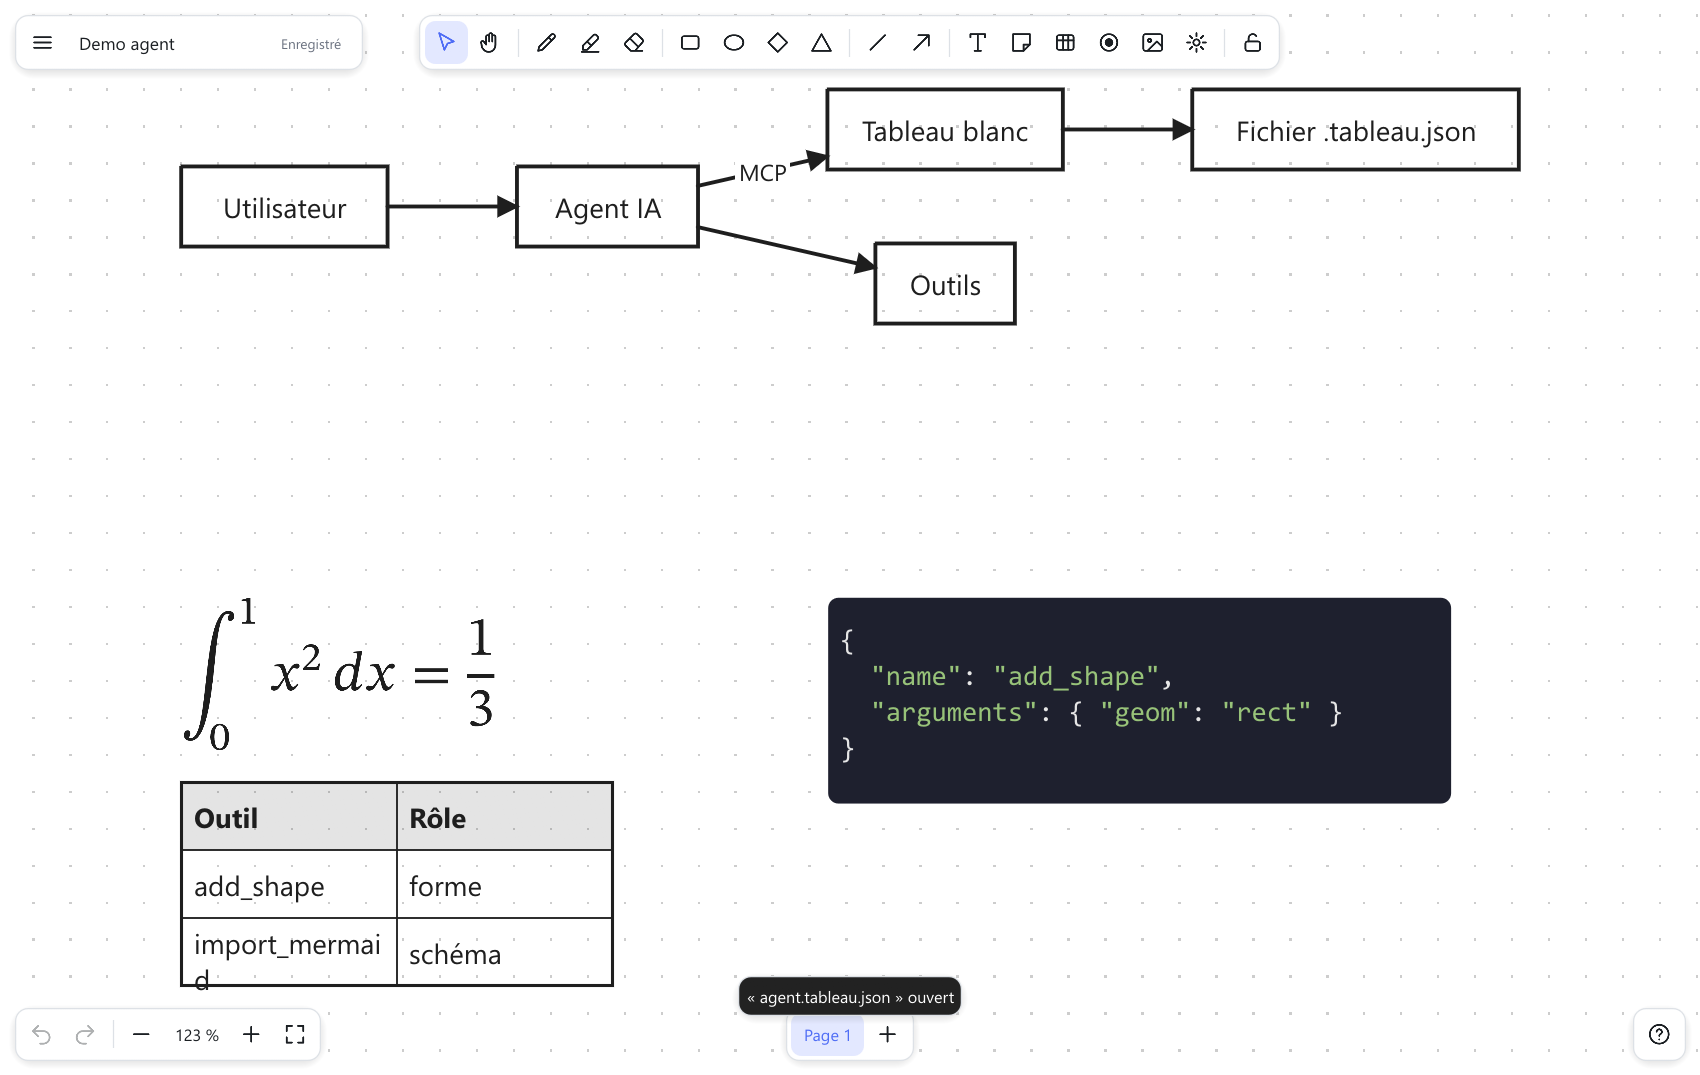
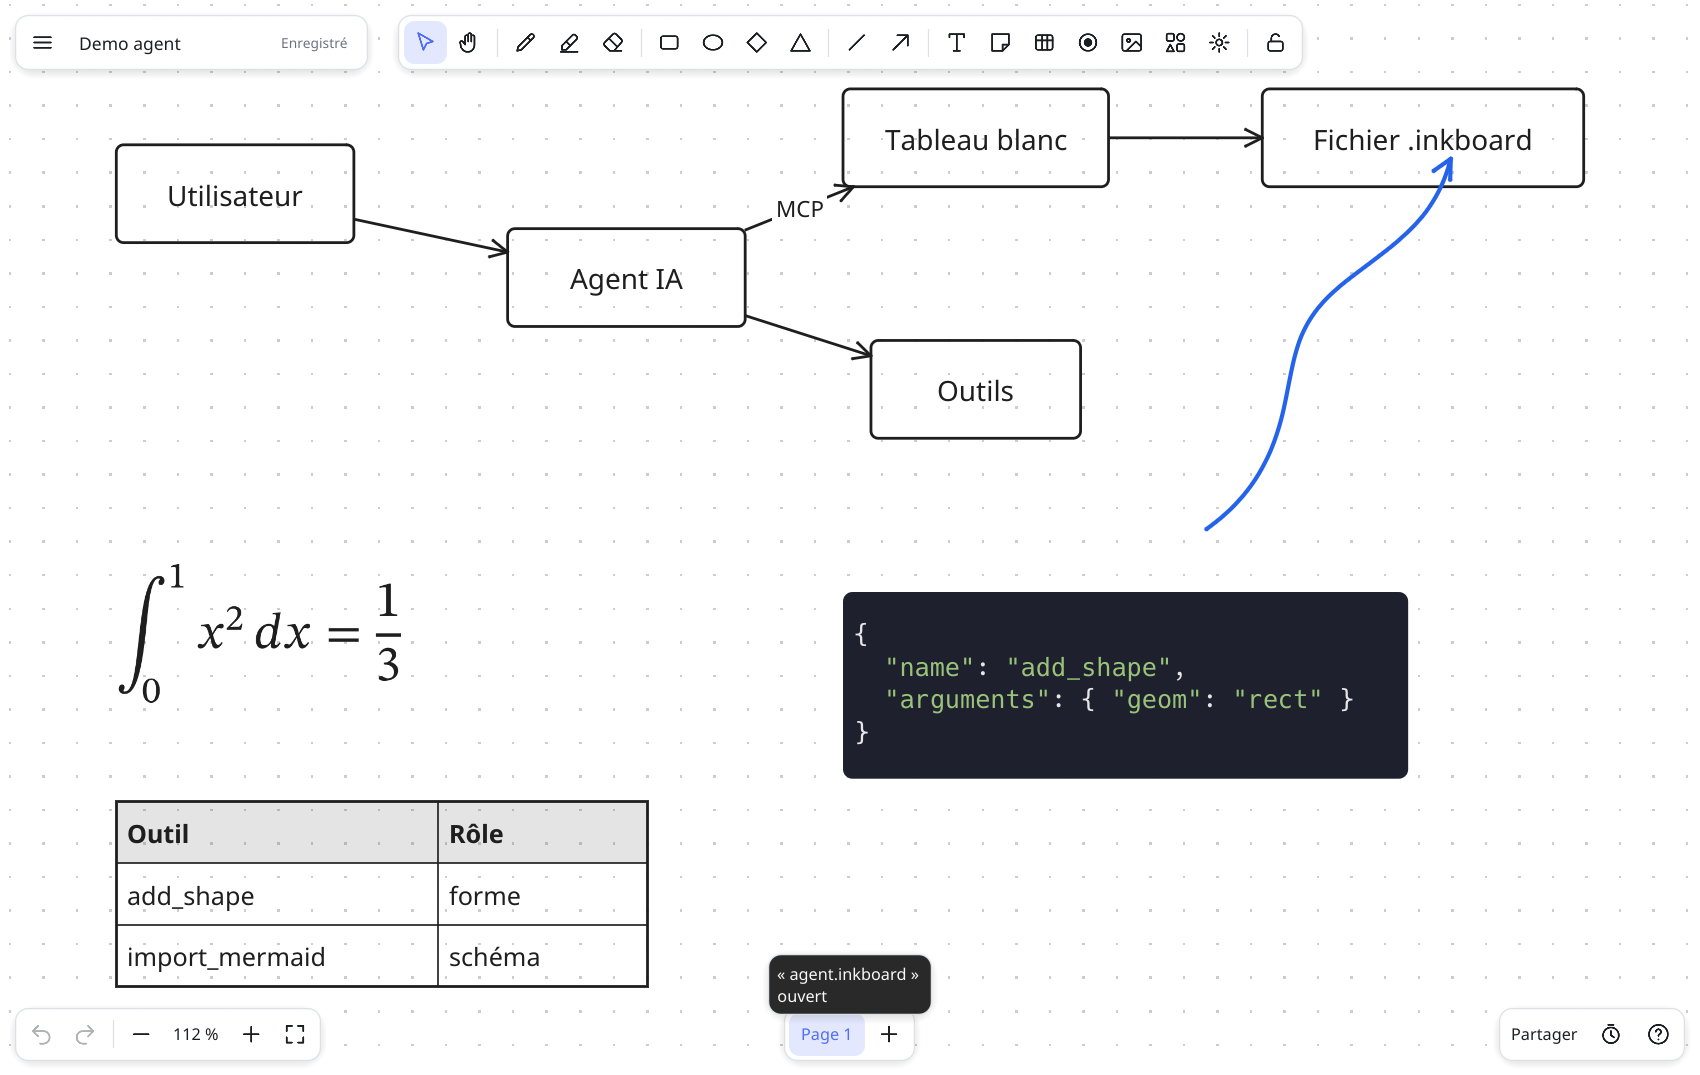
Prepare the repository for outside testers
Status is now "release candidate" in both READMEs, with a 10-minute testing
guide (English and French) linked from the READMEs and CONTRIBUTING.md.
Add a "Test report" issue form and a Discussions contact link, and
regenerate the hero screenshots (current UI, ".inkboard" extension,
no split words in the table, pen stroke with an arrowhead).

diff --git a/docs/fr/TESTING.md b/docs/fr/TESTING.md
@@ -1,0 +1,43 @@
+# Tester Inkboard en 10 minutes
+*English version: [TESTING.md](../TESTING.md)*
+
+Merci d'essayer Inkboard ! Les versions actuelles sont des **release candidates** (`v0.2.0-rc.N`) : elles n'ont été utilisées à la main que sous Windows.
+Les versions Linux et macOS passent les tests automatiques mais personne ne les a encore essayées à la main, et le stylet n'a pas été validé sur du vrai matériel.
+Chaque retour aide, qu'il dise « tout va bien » ou « ça a planté ».
+
+## 1. Le récupérer
+
+Téléchargez l'installeur de votre système sur la page [**Releases**](https://github.com/VictorLetirand/inkboard/releases) (la dernière `rc`) :
+
+| Système | Fichier |
+|---|---|
+| Windows 10/11 | `inkboard_*_x64-setup.exe` |
+| Linux (x86-64) | `inkboard_*_amd64.deb` ou `inkboard_*_x86_64.AppImage` |
+| macOS | `Inkboard_*.dmg` |
+
+Les installeurs **ne sont pas encore signés** : votre système vous avertit au premier lancement. Sous **Windows**, SmartScreen affiche « Windows a protégé votre ordinateur » → *Informations complémentaires* → *Exécuter quand même* ;
+sous **macOS**, Ctrl-clic sur l'application → *Ouvrir*. Chaque version publie des sommes SHA-256. Sans rien installer : rejoignez un tableau partagé depuis une page web (voir l'étape 8).
+
+## 2. À essayer
+
+1. **Stylet :** tracez quelques traits à main levée. Dans le panneau de style du stylo, donnez à un trait une **pointe de flèche à la fin**.
+2. **Formes et texte :** dessinez un rectangle, une ellipse et un losange. Le texte s'ouvre juste après le dessin de la forme : saisissez-y du texte.
+3. **Connecteurs :** reliez deux formes par une flèche, puis déplacez une forme : le connecteur doit suivre.
+4. **Tableau :** insérez un tableau, remplissez quelques cellules, ajoutez une ligne.
+5. **Coller depuis un tableur :** copiez quelques cellules dans Excel / LibreOffice / Google Sheets et collez-les sur le tableau.
+6. **Export :** exportez le tableau en **PNG** et en **PDF**, puis ouvrez les résultats.
+7. **Ouvrir un fichier d'un autre outil :** ouvrez un fichier draw.io ou Excalidraw que vous avez déjà (`.drawio`, `.excalidraw`).
+8. **Partage en direct :** cliquez sur *Partager* et rejoignez depuis un second appareil ou un navigateur (le lien d'invitation s'ouvre dans une page web, rien à installer). Chacun voit-il les modifications et le curseur de l'autre ?
+9. **Thème sombre :** passez au thème sombre depuis le menu et regardez autour de vous.
+
+## 3. Si vous avez le bon système ou le bon appareil
+
+- **Linux :** essayez l'AppImage (`chmod +x *.AppImage && ./*.AppImage`) et le `.deb` (`sudo apt install ./inkboard_*.deb`). Indiquez votre distribution et si vous êtes sous X11 ou Wayland.
+- **macOS :** essayez le `.dmg` (Apple Silicon ou Intel) et dites lequel.
+- **Surface / stylet :** lancez `inkboard --pen-test`, vérifiez la pression et la gomme, puis envoyez le rapport ([comment](STYLET.md)).
+
+## 4. Racontez-nous
+
+- Remplissez le formulaire [**Test report**](https://github.com/VictorLetirand/inkboard/issues/new?template=test_report.md) (en anglais ou en français) : version, système, ce qui a marché, ce qui n'a pas marché (captures bienvenues).
+- Questions, idées, ou simplement « ça marche très bien » : [GitHub Discussions](https://github.com/VictorLetirand/inkboard/discussions).
+- Si Inkboard plante, il écrit un journal et indique où : `%APPDATA%\Inkboard\crash.log` sous Windows. Merci de le joindre.

diff --git a/README.md b/README.md
@@ -7,7 +7,7 @@ Draw, diagram and present on a native desktop app, import and export the formats
 
 [![CI](https://github.com/VictorLetirand/inkboard/actions/workflows/ci.yml/badge.svg)](https://github.com/VictorLetirand/inkboard/actions/workflows/ci.yml)
 [![License: MIT OR Apache-2.0](https://img.shields.io/badge/license-MIT%20OR%20Apache--2.0-blue.svg)](#license)
-![Status: alpha](https://img.shields.io/badge/status-alpha-orange.svg)
+![Status: release candidate](https://img.shields.io/badge/status-release%20candidate-orange.svg)
 ![Platforms](https://img.shields.io/badge/platforms-Windows%20%7C%20Linux%20%7C%20macOS-lightgrey.svg)
 
 🇬🇧 English · 🇫🇷 [Version française](README.fr.md)
@@ -18,8 +18,9 @@ Draw, diagram and present on a native desktop app, import and export the formats
 
 ![Two browser guests and an AI agent editing the same board](docs/img/live-sharing.gif)
 
-> **Status: alpha.** Inkboard is a young project. It is feature-rich and heavily tested (over 850 automated tests), but it has so far been **used by hand on Windows only** (live sharing was also tried between several computers, an Android phone on 5G and a Linux server).
-> Linux and macOS builds compile and pass the automated tests in CI, yet nobody has used the app there yet — expect rough edges, and please [report them](../../issues).
+> **Status: release candidate.** Inkboard is a young project: the 0.2.0 features are complete and being stabilized (releases are named `v0.2.0-rc.N`). It is feature-rich and heavily tested (over 850 automated tests), but it has so far been **used by hand on Windows only** (live sharing was also tried between several computers, an Android phone on 5G and a Linux server).
+> Linux and macOS builds compile and pass the automated tests in CI, yet nobody has used the app there by hand yet, and the pen has not been validated on real hardware — expect rough edges, and please [report them](../../issues).
+> **Testers wanted:** the [10-minute testing guide](docs/TESTING.md) tells you what to try and how to report it.
 > The interface is available in **English and French**; it follows your system language and can be switched from the menu (*Language*).
 
 ## Why Inkboard?
@@ -41,7 +42,7 @@ Before writing a line of code we surveyed what users keep asking for in whiteboa
 
 ### Download (recommended)
 
-Grab the installer for your system from the [**Releases**](../../releases) page (pre-releases while Inkboard is in alpha):
+Grab the installer for your system from the [**Releases**](../../releases) page (release candidates are published as pre-releases until 0.2.0):
 
 | System | File | Notes |
 |---|---|---|
@@ -184,7 +185,7 @@ Planned or wanted next:
 - First real-world usage on Linux and macOS, and fixes that come out of it.
 - Real LaTeX beyond what the typesetting library supports; per-language code highlighting.
 
-Have an idea or found a bug? [Open an issue](../../issues/new/choose) — see also [CONTRIBUTING.md](CONTRIBUTING.md).
+Have an idea or found a bug? [Open an issue](../../issues/new/choose) or start a [discussion](https://github.com/VictorLetirand/inkboard/discussions) — see also the [testing guide](docs/TESTING.md) and [CONTRIBUTING.md](CONTRIBUTING.md).
 
 ## License
 

diff --git a/docs/TESTING.md b/docs/TESTING.md
@@ -1,0 +1,44 @@
+# Testing Inkboard in 10 minutes
+
+*Version française : [fr/TESTING.md](fr/TESTING.md)*
+
+Thank you for trying Inkboard! The current versions are **release candidates** (`v0.2.0-rc.N`): they have been used by hand on Windows only.
+Linux and macOS builds pass the automated tests but nobody has used them by hand yet, and the pen has not been validated on real hardware.
+Every report helps, whether it says "all good" or "this broke".
+
+## 1. Get it
+
+Download the installer for your system from the [**Releases**](https://github.com/VictorLetirand/inkboard/releases) page (the newest `rc`):
+
+| System | File |
+|---|---|
+| Windows 10/11 | `inkboard_*_x64-setup.exe` |
+| Linux (x86-64) | `inkboard_*_amd64.deb` or `inkboard_*_x86_64.AppImage` |
+| macOS | `Inkboard_*.dmg` |
+
+The installers are **not code-signed yet**, so your system warns you the first time: on **Windows**, SmartScreen says "Windows protected your PC" → *More info* → *Run anyway*;
+on **macOS**, Control-click the app → *Open*. Every release lists SHA-256 checksums. No install at all? Join a shared board from a web page (see step 8).
+
+## 2. Things to try
+
+1. **Pen:** draw a few freehand strokes. In the style panel of the pen, give one stroke an **arrowhead at the end**.
+2. **Shapes and text:** draw a rectangle, an ellipse and a diamond. The text opens right after the shape is drawn: type in it.
+3. **Connectors:** join two shapes with an arrow, then move a shape: the connector must follow.
+4. **Table:** insert a table, type in a few cells, add a row.
+5. **Paste from a spreadsheet:** copy a few cells in Excel / LibreOffice / Google Sheets and paste them on the board.
+6. **Export:** export the board as **PNG** and as **PDF**, and open the results.
+7. **Open a foreign file:** open a draw.io or Excalidraw file you already have (`.drawio`, `.excalidraw`).
+8. **Live sharing:** click *Share* and join from a second device or a browser (the invitation link opens in a web page, nothing to install). Do both sides see each other's changes and cursors?
+9. **Dark theme:** switch to the dark theme from the menu and look around.
+
+## 3. If you have the right system or device
+
+- **Linux:** try the AppImage (`chmod +x *.AppImage && ./*.AppImage`) and the `.deb` (`sudo apt install ./inkboard_*.deb`). Tell us your distribution and whether you use X11 or Wayland.
+- **macOS:** try the `.dmg` (Apple Silicon or Intel) and tell us which.
+- **Surface / pen users:** run `inkboard --pen-test` and check pressure and the eraser end, then send the report ([how](STYLET.md)).
+
+## 4. Tell us how it went
+
+- Fill in the [**Test report**](https://github.com/VictorLetirand/inkboard/issues/new?template=test_report.md) form: version, system, what worked, what did not (screenshots welcome).
+- Questions, ideas, or just "it works great": [GitHub Discussions](https://github.com/VictorLetirand/inkboard/discussions).
+- If Inkboard crashes, it writes a log and tells you where: `%APPDATA%\Inkboard\crash.log` on Windows. Please attach it.

diff --git a/README.fr.md b/README.fr.md
@@ -13,7 +13,7 @@ les manques les plus souvent reprochés aux outils du genre (Miro, Excalidraw, d
 ## Installer
 
 Des installeurs (Windows `.exe`, Linux `.deb` / `.AppImage`, macOS `.dmg`) sont publiés sur la page *Releases* du dépôt à chaque version (voir [docs/DISTRIBUTION.md](docs/fr/DISTRIBUTION.md)) ;
-ils ne sont pas encore signés (avertissement SmartScreen / Gatekeeper au premier lancement). Seuls les installeurs Windows ont été construits et testés à ce jour.
+ils ne sont pas encore signés (avertissement SmartScreen / Gatekeeper au premier lancement). Les versions actuelles sont des **release candidates** (`v0.2.0-rc.N`) : utilisées à la main sous Windows uniquement ; les versions Linux et macOS passent la CI mais n'ont pas été essayées à la main, et le stylet n'a pas été validé sur du vrai matériel. **Testeurs bienvenus** : voir le [guide de test en 10 minutes](docs/fr/TESTING.md).
 
 **Sous Windows**, téléchargez `inkboard_*_x64-setup.exe` et double-cliquez : l'installation se fait pour votre utilisateur en quelques secondes (sans droits d'administrateur, rien à installer avant), ajoute un raccourci au menu Démarrer et se désinstalle proprement depuis *Paramètres → Applications*. Ajoutez `--silent` pour une installation silencieuse. Un paquet `winget` est en préparation (`winget install Inkboard.Inkboard`). Si la fenêtre ne s'ouvre pas : Inkboard bascule tout seul d'OpenGL à Direct3D / Vulkan ; la variable d'environnement `INKBOARD_RENDERER=wgpu` (ou `glow`) en force un ; en cas de plantage, il écrit `%APPDATA%\Inkboard\crash.log` et l'indique. La signature de code est prête à être activée dans le workflow de publication dès qu'un certificat existe ([comment](docs/fr/DISTRIBUTION.md)).
 

diff --git a/.github/ISSUE_TEMPLATE/test_report.md b/.github/ISSUE_TEMPLATE/test_report.md
@@ -1,0 +1,24 @@
+---
+name: Test report
+about: You tried Inkboard and want to tell us how it went (good or bad)
+labels: test report
+---
+
+**Version**
+(title bar / `inkboard --version` if available, e.g. 0.2.0-rc.3)
+
+**System**
+(Windows / Linux / macOS + version)
+
+**Installed from**
+exe / AppImage / deb / dmg / web page / source
+
+**What did you try?**
+
+**What worked?**
+
+**What did not work?**
+Steps, what you expected, and screenshots if you can.
+
+**Pen or touch hardware (if any)**
+(device, pressure, eraser end — `inkboard --pen-test` report if relevant)

diff --git a/CONTRIBUTING.md b/CONTRIBUTING.md
@@ -28,6 +28,7 @@ CI runs the same checks on Windows, Linux and macOS with the latest stable Rust.
 ## Reporting bugs
 
 Please include your system (Windows/Linux/macOS and version), how you installed Inkboard (installer or source), and — for drawing problems — the `.inkboard` file if you can share it.
+Just trying Inkboard out? The [10-minute testing guide](docs/TESTING.md) lists what to try and has a "Test report" issue form.
 Pen problems: attach the report from `inkboard --pen-test` ([guide](docs/STYLET.md)).
 
 ## Security
